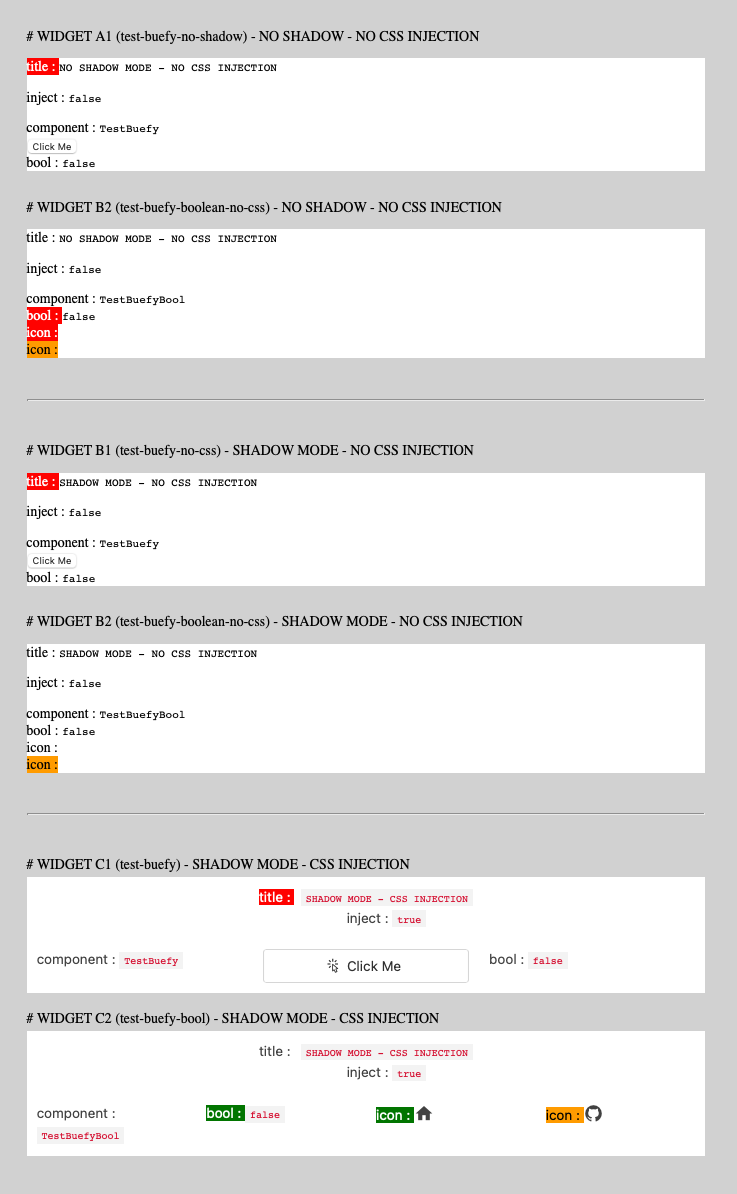
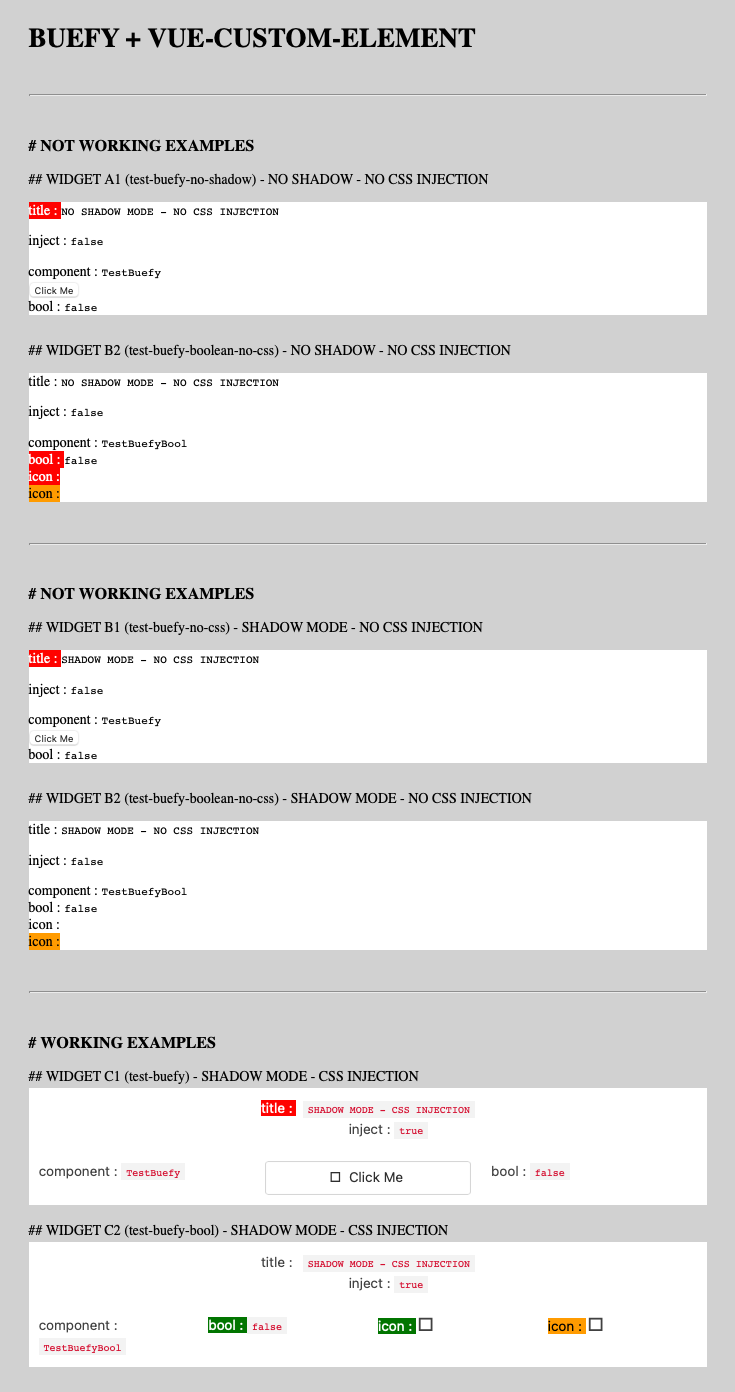
add screenshot to readme

diff --git a/public/index.html b/public/index.html
@@ -18,34 +18,43 @@
 
     <!-- WIDGET'S HTML BLOCKS -->
     <div style="color: black; margin: 3em;">
-      <p># WIDGET A1 (test-buefy-no-shadow) - NO SHADOW - NO CSS INJECTION</p>
+      <h1>BUEFY + VUE-CUSTOM-ELEMENT</h1>
+      <hr style="margin: 3em 0em 3em 0em;">
+
+      <h3># NOT WORKING EXAMPLES</h3>
+
+      <p>## WIDGET A1 (test-buefy-no-shadow) - NO SHADOW - NO CSS INJECTION</p>
       <div style="background-color: white; margin-bottom: 2em;">
         <test-buefy-no-shadow title="NO SHADOW MODE - NO CSS INJECTION" inject-css=false />
       </div>
-      <p># WIDGET B2 (test-buefy-boolean-no-css) - NO SHADOW - NO CSS INJECTION</p>
+      <p>## WIDGET B2 (test-buefy-boolean-no-css) - NO SHADOW - NO CSS INJECTION</p>
       <div style="background-color: white; margin-bottom: 2em;">
         <test-buefy-bool-no-shadow title="NO SHADOW MODE - NO CSS INJECTION" inject-css=false />
       </div>
 
       <hr style="margin: 3em 0em 3em 0em;">
 
-      <p># WIDGET B1 (test-buefy-no-css) - SHADOW MODE - NO CSS INJECTION</p>
+      <h3># NOT WORKING EXAMPLES</h3>
+
+      <p>## WIDGET B1 (test-buefy-no-css) - SHADOW MODE - NO CSS INJECTION</p>
       <div style="background-color: white; margin-bottom: 2em;">
         <test-buefy-no-css title="SHADOW MODE - NO CSS INJECTION" inject-css=false />
       </div>
-      <p># WIDGET B2 (test-buefy-boolean-no-css) - SHADOW MODE - NO CSS INJECTION</p>
+      <p>## WIDGET B2 (test-buefy-boolean-no-css) - SHADOW MODE - NO CSS INJECTION</p>
       <div style="background-color: white; margin-bottom: 2em;">
         <test-buefy-bool-no-css title="SHADOW MODE - NO CSS INJECTION" inject-css=false />
       </div>
       
       <hr style="margin: 3em 0em 3em 0em;">
 
-      <p># WIDGET C1 (test-buefy) - SHADOW MODE - CSS INJECTION</p>
+      <h3># WORKING EXAMPLES</h3>
+
+      <p>## WIDGET C1 (test-buefy) - SHADOW MODE - CSS INJECTION</p>
       <div style="background-color: white; margin-bottom: 2em;">
         <test-buefy title="SHADOW MODE - CSS INJECTION"/>
       </div>
 
-      <p># WIDGET C2 (test-buefy-bool) - SHADOW MODE - CSS INJECTION</p>
+      <p>## WIDGET C2 (test-buefy-bool) - SHADOW MODE - CSS INJECTION</p>
       <div style="background-color: white; margin-bottom: 2em;">
         <test-buefy-bool title="SHADOW MODE - CSS INJECTION"/>
       </div>
